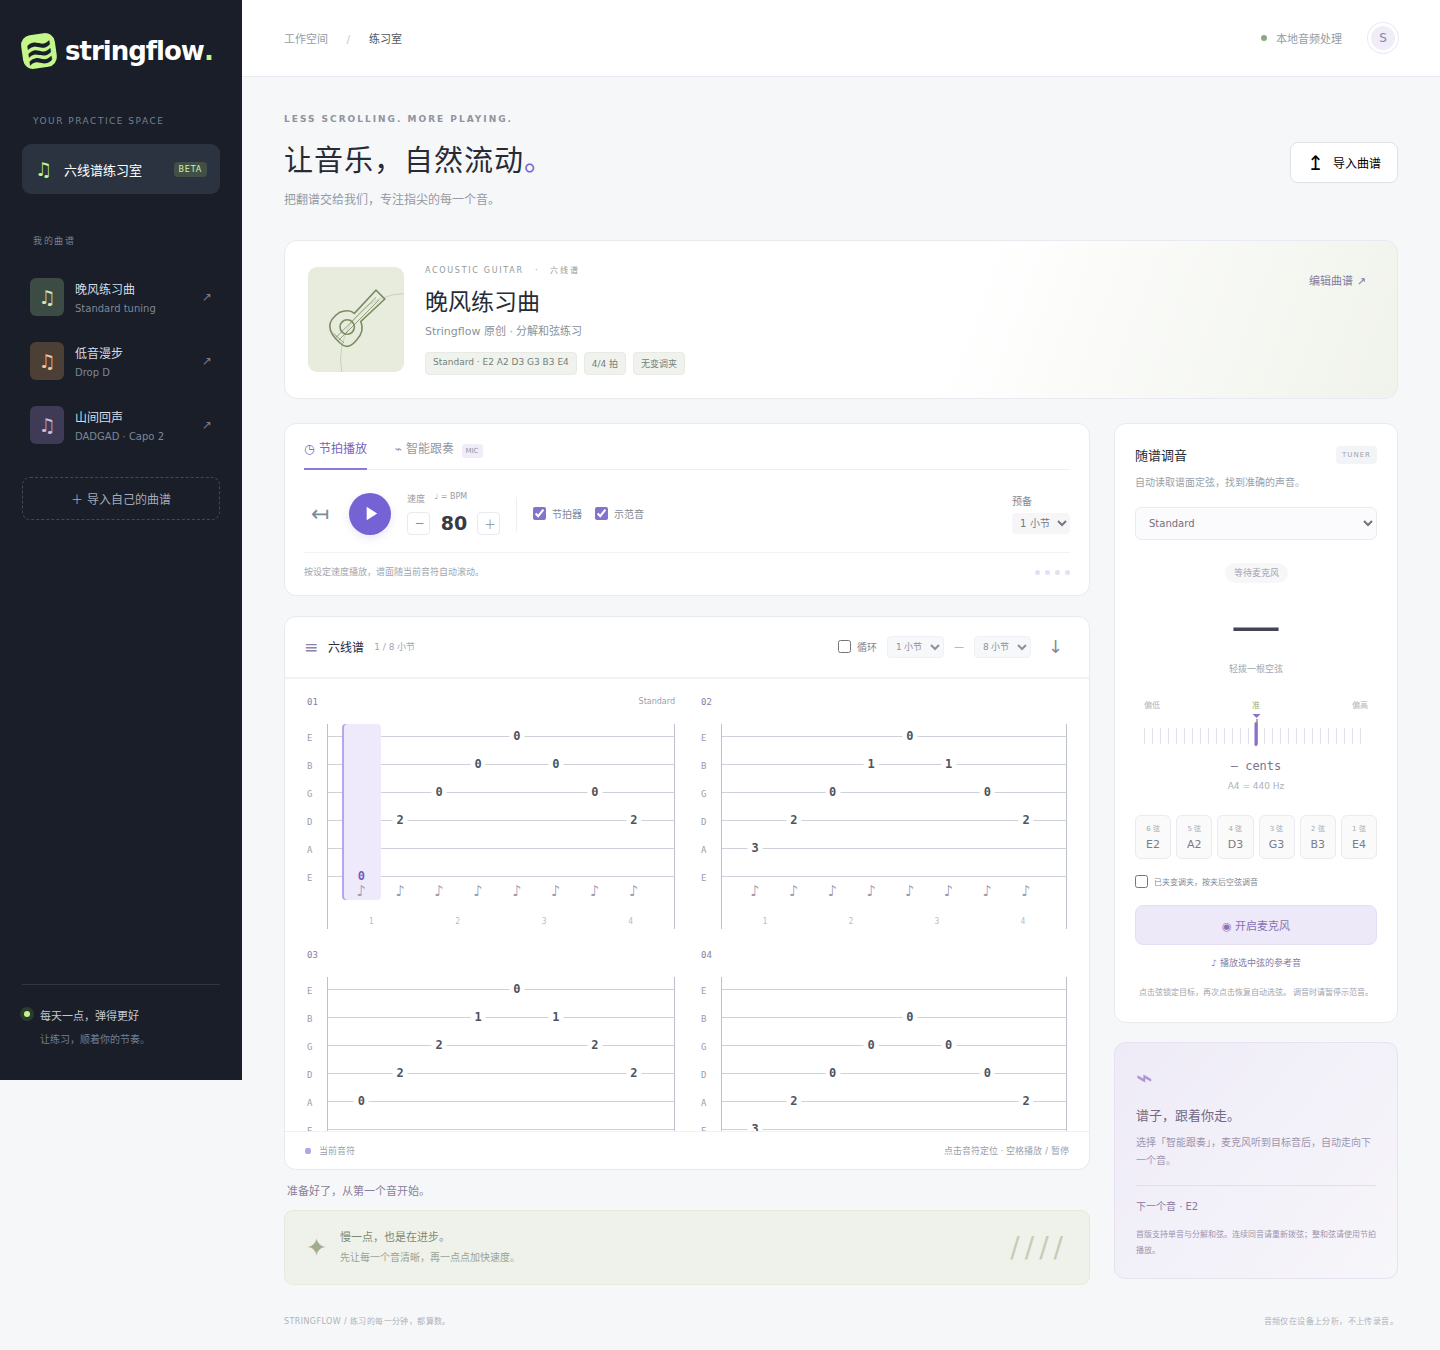
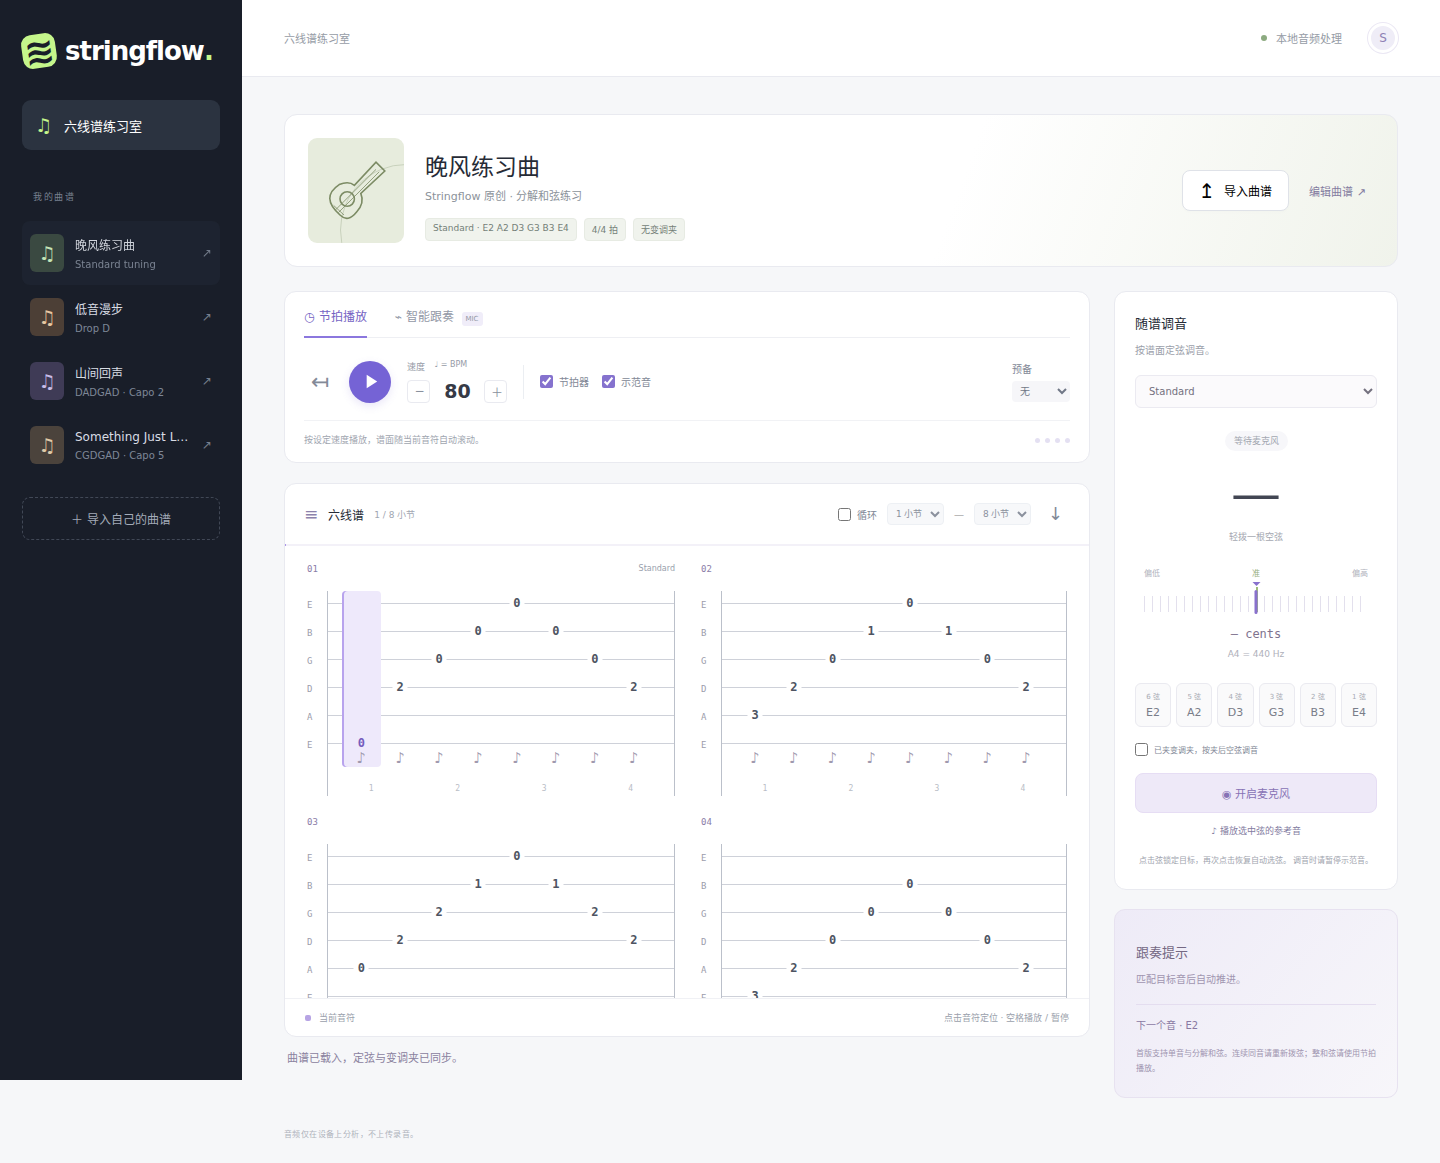
Remove promotional copy and simplify the practice layout

diff --git a/src/main.ts b/src/main.ts
@@ -69,17 +69,17 @@ const iconPlay =
 const iconPause =
   '<svg viewBox="0 0 24 24" fill="currentColor"><path d="M6 5h4v14H6zm8 0h4v14h-4z"/></svg>';
 $("#app").innerHTML = `
-<aside class="sidebar"><a class="brand" href="${import.meta.env.BASE_URL}" aria-label="Stringflow 首页"><span class="brand-icon">≋</span>stringflow<span class="brand-dot">.</span></a><div class="sidebar-label">YOUR PRACTICE SPACE</div><div class="nav-active"><span>♫</span> 六线谱练习室 <span class="nav-pill">BETA</span></div><div class="sidebar-label library-label">我的曲谱</div><div id="library"></div><button id="sidebar-import" class="sidebar-import">＋ 导入自己的曲谱</button><div class="sidebar-footer"><div class="live-dot"></div><div>每天一点，弹得更好<small>让练习，顺着你的节奏。</small></div></div></aside>
-<main><header class="topbar"><span>工作空间 <span class="slash">/</span> <b>练习室</b></span><div class="top-right"><span class="local-dot"></span> 本地音频处理 <span class="avatar">S</span></div></header>
-<div class="content"><section class="page-heading"><div><div class="eyebrow">LESS SCROLLING. MORE PLAYING.</div><h1>让音乐，自然流动<span>。</span></h1><p>把翻谱交给我们，专注指尖的每一个音。</p></div><button id="import-button" class="button secondary"><span>↥</span> 导入曲谱</button></section>
-<section class="song-card"><div class="song-art"><svg viewBox="0 0 100 100" aria-hidden="true"><path d="M30 80Q5 58 29 42q12-5 19 1l27-29 11 11-30 28q5 12-5 23-11 14-21 4Z" fill="none" stroke="currentColor" stroke-width="2"/><circle cx="39" cy="60" r="9" fill="none" stroke="currentColor" stroke-width="2"/><path d="m24 74 51-51m-47 54 51-51M22 68l13 12" stroke="currentColor"/></svg></div><div class="song-info"><div class="song-eyebrow">ACOUSTIC GUITAR <span>·</span> 六线谱</div><h2 id="song-title"></h2><p id="song-artist"></p><div class="tags"><span id="tuning-tag"></span><span id="time-tag"></span><span id="capo-tag"></span></div></div><button id="edit-button" class="text-button">编辑曲谱 ↗</button></section>
+<aside class="sidebar"><a class="brand" href="${import.meta.env.BASE_URL}" aria-label="Stringflow 首页"><span class="brand-icon">≋</span>stringflow<span class="brand-dot">.</span></a><div class="nav-active"><span>♫</span> 六线谱练习室</div><div class="sidebar-label library-label">我的曲谱</div><div id="library"></div><button id="sidebar-import" class="sidebar-import">＋ 导入自己的曲谱</button></aside>
+<main><header class="topbar"><span>六线谱练习室</span><div class="top-right"><span class="local-dot"></span> 本地音频处理 <span class="avatar">S</span></div></header>
+<div class="content">
+<section class="song-card"><div class="song-art"><svg viewBox="0 0 100 100" aria-hidden="true"><path d="M30 80Q5 58 29 42q12-5 19 1l27-29 11 11-30 28q5 12-5 23-11 14-21 4Z" fill="none" stroke="currentColor" stroke-width="2"/><circle cx="39" cy="60" r="9" fill="none" stroke="currentColor" stroke-width="2"/><path d="m24 74 51-51m-47 54 51-51M22 68l13 12" stroke="currentColor"/></svg></div><div class="song-info"><h1 id="song-title"></h1><p id="song-artist"></p><div class="tags"><span id="tuning-tag"></span><span id="time-tag"></span><span id="capo-tag"></span></div></div><div class="song-actions"><button id="import-button" class="button secondary"><span>↥</span> 导入曲谱</button><button id="edit-button" class="text-button">编辑曲谱 ↗</button></div></section>
 <p id="notation-note" class="notation-note" hidden></p>
 <div class="workspace"><div class="practice-column"><section class="transport card"><div class="mode-tabs" role="group" aria-label="播放模式"><button id="tempo-mode" class="selected">◷ 节拍播放</button><button id="follow-mode">⌁ 智能跟奏 <span>MIC</span></button></div><div class="transport-controls"><button id="rewind" class="icon-button" aria-label="回到开头">↤</button><button id="play" class="play-button" aria-label="播放">${iconPlay}</button><div class="tempo-control"><label for="bpm">速度 <span>♩ = BPM</span></label><div><button id="slower" aria-label="减慢速度">−</button><input id="bpm" type="number" min="30" max="240" aria-label="每分钟四分音符数"/><button id="faster" aria-label="加快速度">＋</button></div></div><div class="transport-divider"></div><label class="check-control"><input id="metronome" type="checkbox" checked/>节拍器</label><label class="check-control"><input id="sound" type="checkbox" checked/>示范音</label><label class="count-control">预备<select id="count-in" aria-label="预备小节"><option value="1">1 小节</option><option value="0">无</option><option value="2">2 小节</option></select></label></div><div class="transport-bottom"><span id="mode-help">按设定速度播放，谱面随当前音符自动滚动。</span><span id="beat-dots"></span></div></section>
 <section class="score-card card"><div class="score-toolbar"><div><span class="section-icon">≡</span><b>六线谱</b><span id="bar-position" class="muted"></span></div><div class="score-actions"><label class="check-control"><input id="loop" type="checkbox"/>循环</label><select id="loop-start" aria-label="循环起始小节"></select><span>—</span><select id="loop-end" aria-label="循环结束小节"></select><button id="export" class="icon-button" aria-label="导出 JSON 曲谱">↓</button></div></div><div class="progress-track"><div id="progress"></div></div><div id="score" class="score-scroll" tabindex="0" aria-label="六线谱，点击音符跳转"></div><div class="score-footer"><span><i class="legend-dot"></i> 当前音符</span><span>点击音符定位 · 空格播放 / 暂停</span></div></section>
-<div id="status" class="status" role="status" aria-live="polite">准备好了，从第一个音开始。</div><div class="practice-note"><span>✦</span><div><b>慢一点，也是在进步。</b><p>先让每一个音清晰，再一点点加快速度。</p></div><span class="note-lines">////</span></div></div>
-<aside class="right-column"><section class="tuner-card card"><div class="panel-heading"><h3>随谱调音</h3><span class="small-tag">TUNER</span></div><p class="panel-description">自动读取谱面定弦，找到准确的声音。</p><select id="tuning-preset" aria-label="调弦方案"></select><div class="tuner-display"><span id="tuner-state" class="tuner-state">等待麦克风</span><div id="detected-note" class="detected-note">—<small>轻拨一根空弦</small></div><div class="tuner-scale"><span>偏低</span><span>准</span><span>偏高</span><div class="scale-lines"></div><div id="needle" class="needle"></div></div><div id="cents" class="cents">— cents</div><div id="frequency" class="frequency">A4 = 440 Hz</div></div><div id="strings" class="strings"></div><label class="check-control capo-check"><input id="tune-capo" type="checkbox"/>已夹变调夹，按夹后空弦调音</label><button id="mic-button" class="button mic-button">◉ 开启麦克风</button><button id="reference" class="text-button reference">♪ 播放选中弦的参考音</button><p id="tuner-hint" class="fineprint"></p></section>
-<section class="follow-card"><div class="follow-icon">⌁</div><h3>谱子，跟着你走。</h3><p>选择「智能跟奏」，麦克风听到目标音后，自动走向下一个音。</p><div id="target-note" class="target-note"></div><p class="fineprint">首版支持单音与分解和弦。连续同音请重新拨弦；整和弦请使用节拍播放。</p></section></aside></div><footer class="page-footer"><span>STRINGFLOW / 练习的每一分钟，都算数。</span><span>音频仅在设备上分析，不上传录音。</span></footer></div></main>
-<dialog id="editor"><form method="dialog"><div class="dialog-heading"><div><div class="eyebrow">YOUR MUSIC, YOUR PACE</div><h2>把你的谱子带进来</h2></div><button class="icon-button" aria-label="关闭编辑器">×</button></div></form><p>支持 JSON 曲谱与等时值文本六线谱；图片、PDF 和 Guitar Pro 尚未支持。</p><div class="editor-actions"><label class="button secondary file-button">选择文件<input id="file" type="file" accept=".json,.txt,.tab"/></label><button id="ascii-example" class="text-button">文本谱示例</button><button id="json-current" class="text-button">当前谱 JSON</button></div><textarea id="score-input" spellcheck="false" aria-label="曲谱内容"></textarea><p class="fineprint">文本谱：1 弦到 6 弦排列，品数按列对齐；@step 以四分音符为单位。@tuning 从低音 6 弦到高音 1 弦。变调夹用 @capo 指定。</p><p id="editor-error" class="error" role="alert"></p><div class="dialog-footer"><span>只保存于当前浏览器</span><button id="apply-score" class="button primary">载入曲谱 →</button></div></dialog>`;
+<div id="status" class="status" role="status" aria-live="polite">已就绪。</div></div>
+<aside class="right-column"><section class="tuner-card card"><div class="panel-heading"><h3>随谱调音</h3></div><p class="panel-description">按谱面定弦调音。</p><select id="tuning-preset" aria-label="调弦方案"></select><div class="tuner-display"><span id="tuner-state" class="tuner-state">等待麦克风</span><div id="detected-note" class="detected-note">—<small>轻拨一根空弦</small></div><div class="tuner-scale"><span>偏低</span><span>准</span><span>偏高</span><div class="scale-lines"></div><div id="needle" class="needle"></div></div><div id="cents" class="cents">— cents</div><div id="frequency" class="frequency">A4 = 440 Hz</div></div><div id="strings" class="strings"></div><label class="check-control capo-check"><input id="tune-capo" type="checkbox"/>已夹变调夹，按夹后空弦调音</label><button id="mic-button" class="button mic-button">◉ 开启麦克风</button><button id="reference" class="text-button reference">♪ 播放选中弦的参考音</button><p id="tuner-hint" class="fineprint"></p></section>
+<section class="follow-card"><h3>跟奏提示</h3><p>匹配目标音后自动推进。</p><div id="target-note" class="target-note"></div><p class="fineprint">首版支持单音与分解和弦。连续同音请重新拨弦；整和弦请使用节拍播放。</p></section></aside></div><footer class="page-footer"><span>音频仅在设备上分析，不上传录音。</span></footer></div></main>
+<dialog id="editor"><form method="dialog"><div class="dialog-heading"><div><h2>导入 / 编辑曲谱</h2></div><button class="icon-button" aria-label="关闭编辑器">×</button></div></form><p>支持 JSON 曲谱与等时值文本六线谱；图片、PDF 和 Guitar Pro 尚未支持。</p><div class="editor-actions"><label class="button secondary file-button">选择文件<input id="file" type="file" accept=".json,.txt,.tab"/></label><button id="ascii-example" class="text-button">文本谱示例</button><button id="json-current" class="text-button">当前谱 JSON</button></div><textarea id="score-input" spellcheck="false" aria-label="曲谱内容"></textarea><p class="fineprint">文本谱：1 弦到 6 弦排列，品数按列对齐；@step 以四分音符为单位。@tuning 从低音 6 弦到高音 1 弦。变调夹用 @capo 指定。</p><p id="editor-error" class="error" role="alert"></p><div class="dialog-footer"><span>只保存于当前浏览器</span><button id="apply-score" class="button primary">载入曲谱 →</button></div></dialog>`;
 
 function status(message: string, error = false) {
   $("#status").textContent = message;
@@ -357,7 +357,7 @@ async function startMic(purpose: "tuner" | "follow") {
 function finish() {
   pause();
   $("#progress").style.width = "100%";
-  status("这一遍完成了。做得不错，再练一遍吧。");
+  status("这一遍完成了。");
   completed = true;
 }
 function advanceFollow() {

diff --git a/src/style.css b/src/style.css
@@ -101,6 +101,7 @@ a {
   margin: 48px 11px 18px;
 }
 .nav-active {
+  margin-top: 32px;
   background: #2b3340;
   padding: 14px 13px;
   border-radius: 9px;
@@ -113,15 +114,6 @@ a {
 .nav-active > span:first-child {
   color: var(--lime);
   font-size: 19px;
-}
-.nav-pill {
-  font-size: 8px;
-  padding: 3px 5px;
-  background: #424f45;
-  color: #cdf9a5;
-  border-radius: 4px;
-  margin-left: auto;
-  letter-spacing: 0.8px;
 }
 .library-label {
   margin-top: 40px;
@@ -179,22 +171,6 @@ a {
   padding: 12px;
   font-size: 12px;
 }
-.sidebar-footer {
-  margin-top: auto;
-  display: flex;
-  gap: 10px;
-  padding: 22px 2px 0;
-  border-top: 1px solid #303642;
-  font-size: 11px;
-  color: #c3c9d3;
-}
-.sidebar-footer small {
-  display: block;
-  color: #747f90;
-  font-size: 10px;
-  margin-top: 8px;
-}
-.live-dot,
 .local-dot {
   width: 6px;
   height: 6px;
@@ -202,9 +178,6 @@ a {
   border-radius: 100%;
   display: inline-block;
   margin-top: 4px;
-}
-.sidebar-footer .live-dot {
-  box-shadow: 0 0 0 4px #2d3b2e;
 }
 main {
   margin-left: 242px;
@@ -223,10 +196,6 @@ main {
 .topbar b {
   font-weight: 500;
   color: #535965;
-}
-.slash {
-  margin: 0 15px;
-  color: #c6c9d1;
 }
 .top-right {
   display: flex;
@@ -255,34 +224,15 @@ main {
   margin: auto;
   padding: 37px 42px 24px;
 }
-.page-heading {
-  display: flex;
-  justify-content: space-between;
-  align-items: center;
-  margin-bottom: 28px;
-}
-.eyebrow {
-  font-size: 9px;
-  color: #8f949e;
-  letter-spacing: 2px;
-  font-weight: 600;
-}
 h1 {
   font-weight: 600;
   font-size: 29px;
   letter-spacing: 1px;
   margin: 13px 0 11px;
 }
-h1 span {
-  color: var(--purple);
-}
 p {
   line-height: 1.8;
   margin: 0;
-}
-.page-heading p {
-  font-size: 12px;
-  color: #959aa5;
 }
 .button {
   display: inline-flex;
@@ -339,15 +289,7 @@ p {
   width: 80px;
   position: relative;
 }
-.song-eyebrow {
-  font-size: 8px;
-  letter-spacing: 1.7px;
-  color: #929995;
-}
-.song-eyebrow span {
-  margin: 0 7px;
-}
-.song-info h2 {
+.song-info h1 {
   font-size: 23px;
   font-weight: 600;
   margin: 8px 0 5px;
@@ -376,11 +318,6 @@ p {
   color: #837c9f;
   font-size: 11px;
   padding: 8px;
-}
-.song-card > .text-button {
-  margin-left: auto;
-  align-self: flex-start;
-  white-space: nowrap;
 }
 .workspace {
   display: grid;
@@ -773,36 +710,6 @@ p {
 .error {
   color: #b35456;
 }
-.practice-note {
-  display: flex;
-  align-items: center;
-  gap: 13px;
-  background: #eff2eb;
-  border: 1px solid #e5eadf;
-  padding: 17px 21px;
-  border-radius: 9px;
-  color: #7d8a70;
-}
-.practice-note > span:first-child {
-  font-size: 25px;
-  color: #a0ae8e;
-}
-.practice-note b {
-  font-size: 11px;
-  font-weight: 500;
-}
-.practice-note p {
-  font-size: 10px;
-  color: #9ba393;
-  margin-top: 5px;
-}
-.note-lines {
-  margin-left: auto;
-  font-size: 28px;
-  font-weight: 200;
-  letter-spacing: 5px;
-  color: #c3cdb8;
-}
 .right-column {
   display: flex;
   flex-direction: column;
@@ -820,14 +727,6 @@ p {
   font-size: 13px;
   font-weight: 600;
   margin: 0;
-}
-.small-tag {
-  font-size: 7px;
-  color: #a0a3ad;
-  background: #f3f4f7;
-  letter-spacing: 1px;
-  border-radius: 4px;
-  padding: 5px 6px;
 }
 .panel-description {
   font-size: 10px;
@@ -1003,11 +902,6 @@ p {
   background: linear-gradient(130deg, #eeebf7, #f7f6fa);
   border-radius: 11px;
   padding: 20px 21px;
-}
-.follow-icon {
-  font-size: 28px;
-  color: #ab98cf;
-  line-height: 1.1;
 }
 .follow-card h3 {
   font-size: 13px;
@@ -1202,7 +1096,6 @@ dialog .fineprint {
   .brand-dot,
   .sidebar-label,
   .nav-active,
-  .sidebar-footer,
   .sidebar-import,
   .library-item > span:not(:first-child) {
     display: none;
@@ -1235,11 +1128,8 @@ dialog .fineprint {
   .score-scroll {
     height: 489px;
   }
-  .song-info h2 {
+  .song-info h1 {
     font-size: 20px;
-  }
-  .page-heading h1 {
-    font-size: 25px;
   }
   .transport-controls {
     gap: 14px;
@@ -1299,29 +1189,6 @@ dialog .fineprint {
   .content {
     padding: 25px 16px;
   }
-  .page-heading {
-    align-items: flex-start;
-    gap: 10px;
-    margin-bottom: 22px;
-  }
-  .eyebrow {
-    font-size: 7px;
-    letter-spacing: 1.3px;
-  }
-  .page-heading h1 {
-    font-size: 23px;
-    letter-spacing: 0;
-    margin-top: 11px;
-  }
-  .page-heading p {
-    font-size: 10px;
-  }
-  .page-heading .button {
-    font-size: 10px;
-    padding: 8px 10px;
-    margin-top: 20px;
-    white-space: nowrap;
-  }
   .song-card {
     padding: 16px;
     gap: 13px;
@@ -1334,12 +1201,8 @@ dialog .fineprint {
   .song-art svg {
     width: 58px;
   }
-  .song-info h2 {
+  .song-info h1 {
     font-size: 19px;
-  }
-  .song-eyebrow {
-    font-size: 6px;
-    letter-spacing: 1px;
   }
   .song-info p {
     font-size: 9px;
@@ -1347,10 +1210,6 @@ dialog .fineprint {
   .tags span {
     font-size: 7px;
     padding: 3px 4px;
-  }
-  .song-card > .text-button {
-    font-size: 9px;
-    padding: 2px;
   }
   .workspace {
     grid-template-columns: 1fr;
@@ -1542,20 +1401,15 @@ dialog .fineprint {
 .song-info {
   min-width: 0;
 }
-.song-info h2 {
+.song-info h1 {
   overflow-wrap: anywhere;
 }
 @media (max-width: 680px) {
-  .song-info h2 {
+  .song-info h1 {
     font-size: 17px;
   }
   .notation-note {
     font-size: 10px;
-  }
-  .song-card > .text-button {
-    max-width: 55px;
-    white-space: normal;
-    flex-shrink: 0;
   }
   .detailed-score .fret {
     font-size: 10px;
@@ -1578,5 +1432,42 @@ dialog .fineprint {
   .score-toolbar b,
   .score-toolbar .muted {
     white-space: nowrap;
+  }
+}
+
+.song-actions {
+  margin-left: auto;
+  display: flex;
+  align-items: center;
+  gap: 12px;
+  flex-shrink: 0;
+}
+.song-info h1 {
+  letter-spacing: 0;
+}
+@media (max-width: 1100px) {
+  .song-actions {
+    flex-direction: column;
+    align-items: flex-end;
+    gap: 4px;
+  }
+}
+@media (max-width: 680px) {
+  .song-card {
+    flex-wrap: wrap;
+  }
+  .song-info {
+    flex: 1;
+  }
+  .song-actions {
+    width: 100%;
+    flex-direction: row;
+    justify-content: flex-end;
+    align-items: center;
+    gap: 10px;
+  }
+  .song-actions .button {
+    padding: 8px 12px;
+    font-size: 11px;
   }
 }
